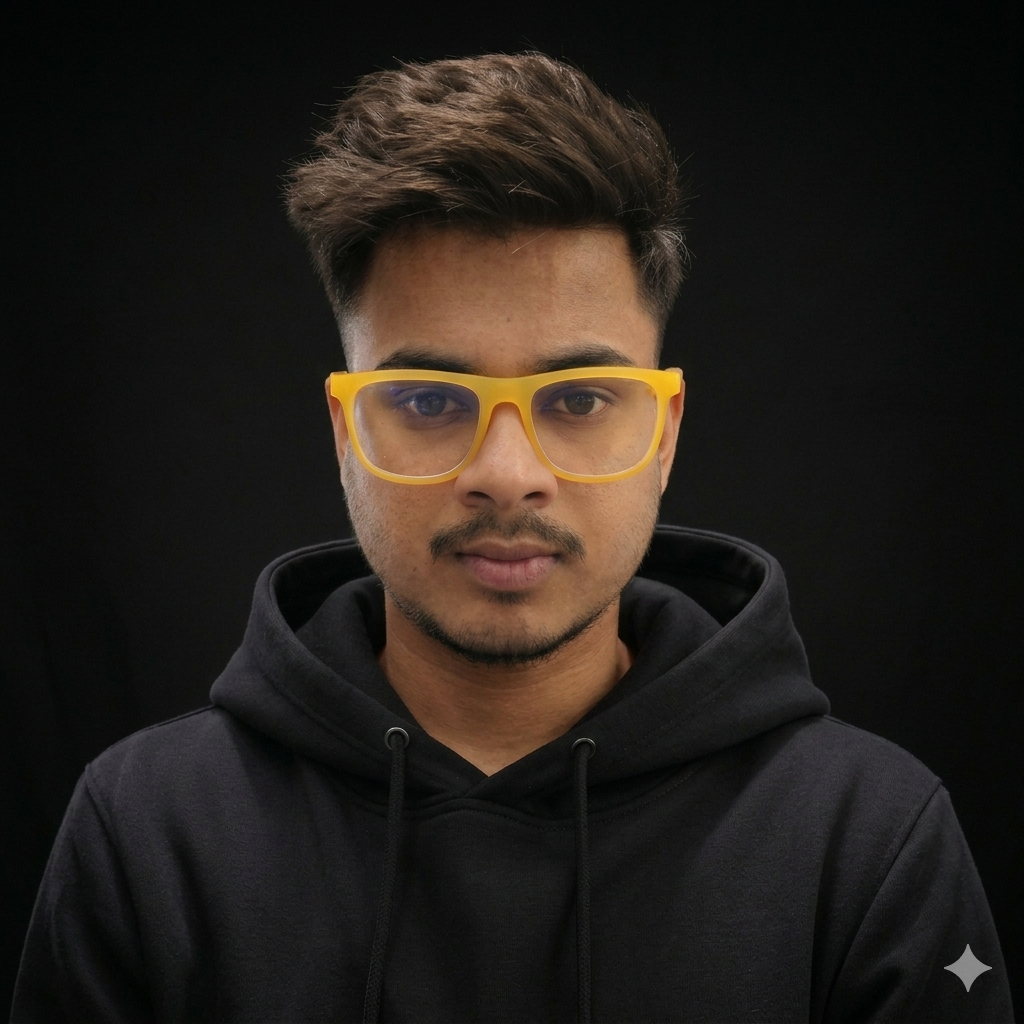
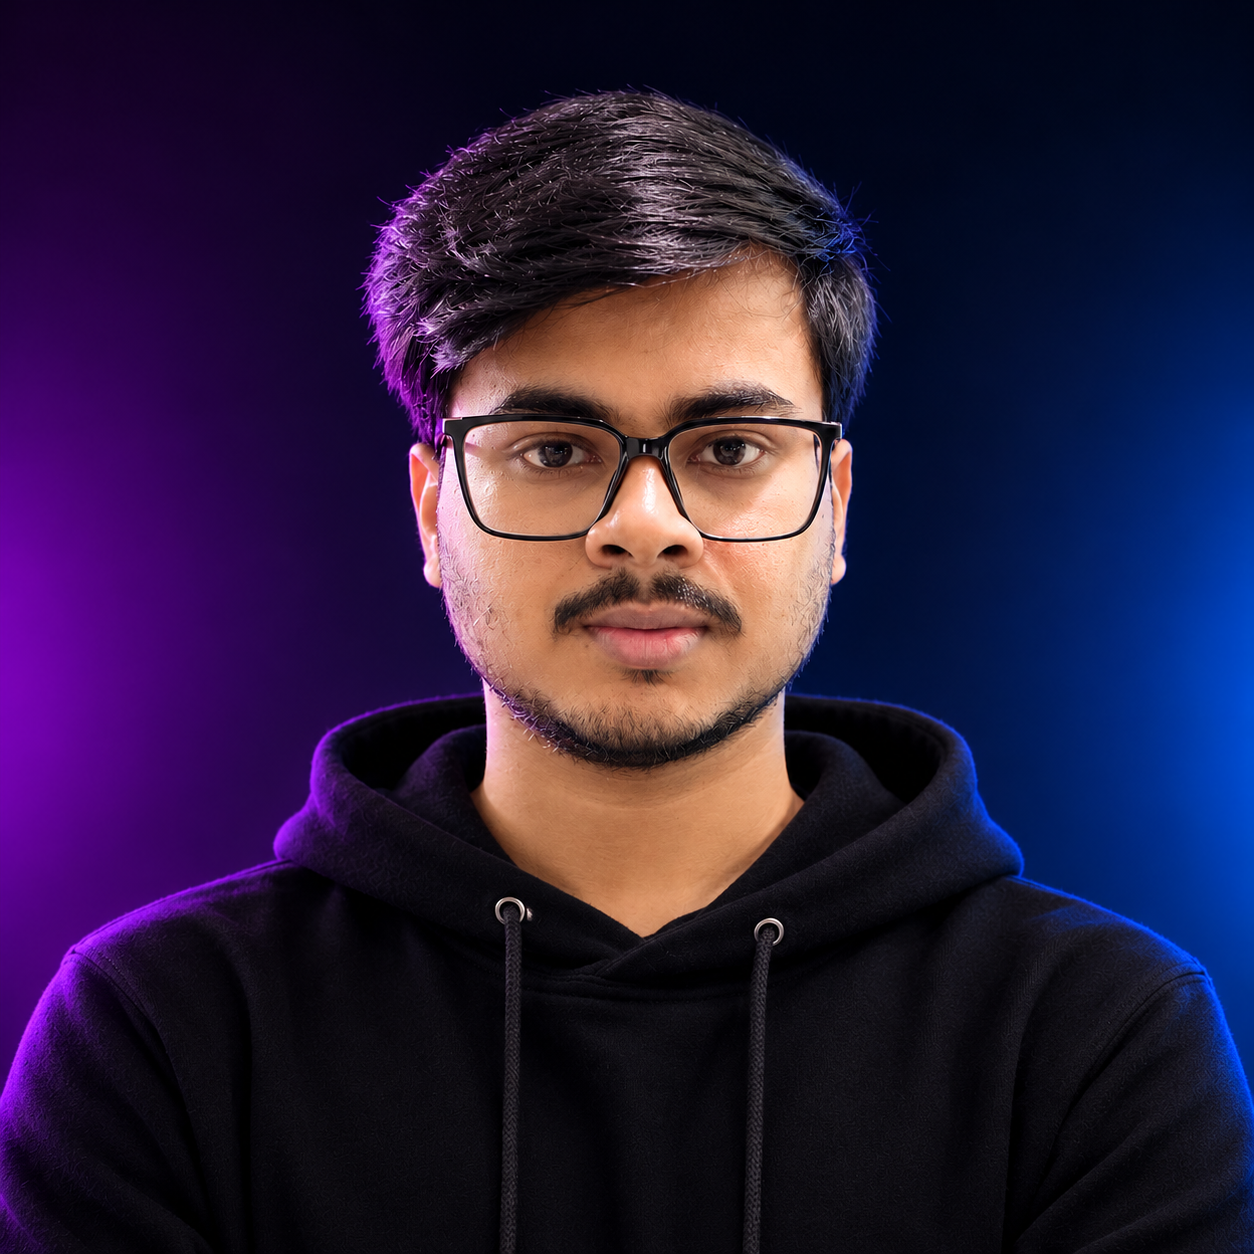
new updates

diff --git a/skills.html b/skills.html
@@ -6,8 +6,6 @@
   <title>Jagadish Das</title>
   <link rel="preconnect" href="https://fonts.googleapis.com">
   <link rel="preconnect" href="https://fonts.gstatic.com" crossorigin>
-  <link rel="preconnect" href="https://api.iconify.design">
-  <link rel="preconnect" href="https://cdn.simpleicons.org">
   <link rel="stylesheet" href="https://fonts.googleapis.com/css2?family=Cinzel:wght@600;700&family=Cormorant+Garamond:wght@400;500;600;700&family=Source+Sans+3:wght@400;500;600&display=swap">
   <link rel="icon" type="image/png" sizes="512x512" href="images/favicon.png?v=2">
   <link rel="shortcut icon" href="images/favicon.png?v=2">
@@ -67,27 +65,27 @@
         <div class="skills-group">
           <div class="skills-grid">
             <article class="skill-chip">
-              <img class="skill-icon" src="https://api.iconify.design/mdi:content-cut.svg?color=%23353F4D" alt="Video Editing" loading="lazy" decoding="async">
+              <svg class="skill-icon" role="img" aria-label="Video Editing"><use href="images/icons.svg#video-editing"></use></svg>
               <span>Video Editing</span>
             </article>
             <article class="skill-chip">
-              <img class="skill-icon" src="images/music.png" alt="Sound Design" loading="lazy" decoding="async">
+              <svg class="skill-icon" role="img" aria-label="Sound Design"><use href="images/icons.svg#sound-design"></use></svg>
               <span>Sound Design</span>
             </article>
             <article class="skill-chip">
-              <img class="skill-icon" src="https://api.iconify.design/mdi:palette-outline.svg?color=%237a5cff" alt="Color Grading" loading="lazy" decoding="async">
+              <svg class="skill-icon" role="img" aria-label="Color Grading"><use href="images/icons.svg#color-grading"></use></svg>
               <span>Color Grading</span>
             </article>
             <article class="skill-chip">
-              <img class="skill-icon" src="https://api.iconify.design/mdi:play-speed.svg?color=%23353F4D" alt="Motion Graphics" loading="lazy" decoding="async">
+              <svg class="skill-icon" role="img" aria-label="Motion Graphics"><use href="images/icons.svg#motion-graphics"></use></svg>
               <span>Motion Graphics</span>
             </article>
             <article class="skill-chip">
-              <img class="skill-icon" src="https://api.iconify.design/mdi:movie-open-outline.svg?color=%237a5cff" alt="Cinematography" loading="lazy" decoding="async">
+              <svg class="skill-icon" role="img" aria-label="Cinematography"><use href="images/icons.svg#cinematography"></use></svg>
               <span>Cinematography</span>
             </article>
             <article class="skill-chip">
-              <img class="skill-icon" src="https://api.iconify.design/mdi:camera-outline.svg?color=%237a5cff" alt="Photography" loading="lazy" decoding="async">
+              <svg class="skill-icon" role="img" aria-label="Photography"><use href="images/icons.svg#photography"></use></svg>
               <span>Photography</span>
             </article>
           </div>
@@ -97,27 +95,27 @@
           <h3 class="tools-title">Tools I Use</h3>
           <div class="skills-grid">
             <article class="skill-chip">
-              <img class="skill-icon" src="https://api.iconify.design/simple-icons:adobepremierepro.svg?color=%239999FF" alt="Premiere Pro" loading="lazy" decoding="async">
+              <svg class="skill-icon" role="img" aria-label="Premiere Pro"><use href="images/icons.svg#premiere-pro"></use></svg>
               <span>Premiere Pro</span>
             </article>
             <article class="skill-chip">
-              <img class="skill-icon" src="https://api.iconify.design/simple-icons:adobeaftereffects.svg?color=%239999FF" alt="After Effects" loading="lazy" decoding="async">
+              <svg class="skill-icon" role="img" aria-label="After Effects"><use href="images/icons.svg#after-effects"></use></svg>
               <span>After Effects</span>
             </article>
             <article class="skill-chip">
-              <img class="skill-icon" src="https://api.iconify.design/simple-icons:adobephotoshop.svg?color=%2331A8FF" alt="Photoshop" loading="lazy" decoding="async">
+              <svg class="skill-icon" role="img" aria-label="Photoshop"><use href="images/icons.svg#photoshop"></use></svg>
               <span>Photoshop</span>
             </article>
             <article class="skill-chip">
-              <img class="skill-icon" src="https://api.iconify.design/simple-icons:adobelightroom.svg?color=%2331A8FF" alt="Lightroom" loading="lazy" decoding="async">
+              <svg class="skill-icon" role="img" aria-label="Lightroom"><use href="images/icons.svg#lightroom"></use></svg>
               <span>Lightroom</span>
             </article>
             <article class="skill-chip">
-              <img class="skill-icon" src="https://cdn.simpleicons.org/davinciresolve/233A51" alt="DaVinci Resolve" loading="lazy" decoding="async">
+              <img class="skill-icon skill-icon-brand-shape" src="https://cdn.simpleicons.org/davinciresolve/353F4D" alt="DaVinci Resolve" loading="lazy" decoding="async">
               <span>Davinci Resolve</span>
             </article>
             <article class="skill-chip">
-              <img class="skill-icon" src="https://cdn.simpleicons.org/figma/F24E1E" alt="Figma" loading="lazy" decoding="async">
+              <img class="skill-icon skill-icon-brand-shape" src="https://cdn.simpleicons.org/figma/353F4D" alt="Figma" loading="lazy" decoding="async">
               <span>Figma</span>
             </article>
           </div>

diff --git a/styles.css b/styles.css
@@ -1640,15 +1640,21 @@ body.dark-mode .info-card img.info {
 #skills .skill-icon {
   width: 28px;
   height: 28px;
+  display: block;
   object-fit: contain;
   flex-shrink: 0;
-  /* Force a unified premium monochrome icon look in light mode */
-  filter: grayscale(1) brightness(0.32);
+  color: var(--heading);
 }
 
-/* Ensure darker icons remain visible in dark mode */
-body.dark-mode #skills .skill-icon {
-  filter: grayscale(1) brightness(1.1) invert(1);
+#skills .skill-icon-brand-shape {
+  width: 28px;
+  height: 28px;
+  display: block;
+  object-fit: contain;
+}
+
+body.dark-mode #skills .skill-icon-brand-shape {
+  filter: brightness(0) invert(0.92);
 }
 
 /* Keep Final Cut Pro logo color intact for visibility */
@@ -3601,14 +3607,12 @@ body.dark-mode #contact .contact-showcase-card {
   box-shadow: none;
 }
 
-#contact .contact-showcase-icon img {
+#contact .contact-showcase-icon svg {
   width: 20px;
   height: 20px;
-  filter: brightness(0);
-}
-
-body.dark-mode #contact .contact-showcase-icon img {
-  filter: brightness(0) invert(1);
+  display: block;
+  object-fit: contain;
+  color: var(--heading);
 }
 
 #contact .contact-showcase-card h3 {
@@ -3894,10 +3898,6 @@ body.dark-mode #projects .film-card {
 body.dark-mode #skills .skill-chip {
   background: linear-gradient(180deg, rgba(255,255,255,0.06), rgba(255,255,255,0.03));
   border: 1px solid var(--input-border);
-}
-body.dark-mode #skills .skill-icon:not(.skill-icon-text) {
-  /* Off-white icon tone for dark mode */
-  filter: grayscale(1) brightness(0) invert(0.92);
 }
 h1{ font-weight:600; font-size:var(--fs-h1) }
 h2{ font-size:var(--fs-h2); font-weight:600 }
@@ -5773,5 +5773,142 @@ body.dark-mode #profile.home-hero .hero-avatar.profile-pic {
   body.dark-mode .mode-toggle {
     border: 1px solid rgba(245, 239, 228, 0.08) !important;
     box-shadow: none !important;
+  }
+}
+
+/* About page layout and typography refinement */
+body.about-page .site-wrapper {
+  max-width: 1080px;
+  padding-top: clamp(112px, 13vh, 148px);
+  padding-bottom: clamp(36px, 5vw, 64px);
+}
+
+#about-me.about-ref {
+  padding: 1rem 0 2rem;
+}
+
+.about-ref-wrap {
+  width: min(100%, 900px);
+  margin-inline: auto;
+}
+
+.about-ref-top {
+  max-width: 760px;
+}
+
+.about-ref-top h2 {
+  margin: 0;
+  font-size: clamp(1.9rem, 1.55rem + 1.35vw, 2.6rem);
+  line-height: 1.12;
+  letter-spacing: 0.005em;
+  text-wrap: balance;
+}
+
+.about-ref-accent {
+  width: 72px;
+  height: 8px;
+  margin: 0.9rem 0 1.15rem;
+}
+
+.about-ref-name {
+  margin: 0 0 0.35rem;
+  font-size: clamp(2.25rem, 1.8rem + 1.8vw, 3.1rem);
+  line-height: 1.08;
+  letter-spacing: -0.018em;
+  text-wrap: balance;
+}
+
+.about-ref-role {
+  display: block;
+  max-width: none;
+  margin: 0 0 1.15rem;
+  font-size: clamp(1.28rem, 1.1rem + 0.65vw, 1.65rem);
+  line-height: 1.3;
+  letter-spacing: 0;
+  white-space: normal;
+  text-wrap: balance;
+}
+
+.about-ref-body {
+  max-width: 68ch;
+  font-family: 'Source Sans 3', system-ui, sans-serif;
+  font-size: clamp(1rem, 0.96rem + 0.22vw, 1.1rem);
+  line-height: 1.75;
+  letter-spacing: 0.005em;
+  text-wrap: pretty;
+}
+
+.about-ref-grid {
+  grid-template-columns: repeat(2, minmax(0, 1fr));
+  align-items: stretch;
+  gap: clamp(1rem, 2.4vw, 1.5rem);
+  margin-top: clamp(1.8rem, 3vw, 2.5rem);
+}
+
+.about-ref-col {
+  min-width: 0;
+  padding: clamp(1.2rem, 2.2vw, 1.6rem);
+  border: 1px solid var(--input-border);
+  border-radius: 18px;
+  background: var(--card);
+}
+
+.about-ref-col h3 {
+  padding-bottom: 0.75rem;
+  margin-bottom: 1rem;
+  border-bottom-color: var(--input-border);
+  color: var(--heading);
+  font-size: 0.9rem;
+  line-height: 1.35;
+  letter-spacing: 0.11em;
+}
+
+.about-ref-col ul {
+  gap: 0.78rem;
+}
+
+.about-ref-col li {
+  grid-template-columns: 8px minmax(0, 1fr);
+  gap: 0.7rem;
+  align-items: baseline;
+  font-family: 'Source Sans 3', system-ui, sans-serif;
+  font-size: 0.98rem;
+  line-height: 1.5;
+  letter-spacing: 0.005em;
+  text-wrap: pretty;
+}
+
+.about-ref-col li::before {
+  width: 6px;
+  height: 6px;
+  margin-top: 0;
+  align-self: center;
+  box-shadow: none;
+}
+
+@media (max-width: 640px) {
+  body.about-page .site-wrapper {
+    padding-top: 104px;
+    padding-bottom: 32px;
+  }
+
+  #about-me.about-ref {
+    padding-top: 0.5rem;
+    padding-bottom: 1.25rem;
+  }
+
+  .about-ref-grid {
+    grid-template-columns: minmax(0, 1fr);
+    gap: 0.85rem;
+    margin-top: 1.5rem;
+  }
+
+  .about-ref-col {
+    padding: 1.1rem;
+    border-radius: 15px;
+  }
+
+  .about-ref-col ul {
+    gap: 0.65rem;
   }
 }

diff --git a/contact.html b/contact.html
@@ -6,7 +6,6 @@
   <title>Jagadish Das</title>
   <link rel="preconnect" href="https://fonts.googleapis.com">
   <link rel="preconnect" href="https://fonts.gstatic.com" crossorigin>
-  <link rel="preconnect" href="https://api.iconify.design">
   <link rel="stylesheet" href="https://fonts.googleapis.com/css2?family=Cinzel:wght@600;700&family=Cormorant+Garamond:wght@400;500;600;700&family=Source+Sans+3:wght@400;500;600&display=swap">
   <link rel="icon" type="image/png" sizes="512x512" href="images/favicon.png?v=2">
   <link rel="shortcut icon" href="images/favicon.png?v=2">
@@ -69,7 +68,7 @@
         <div class="contact-showcase-grid">
           <article class="contact-showcase-card">
             <div class="contact-showcase-icon">
-              <img src="https://api.iconify.design/mdi:email-outline.svg" alt="Email icon" loading="lazy" decoding="async">
+              <svg role="img" aria-label="Email icon"><use href="images/icons.svg#email"></use></svg>
             </div>
             <p>Share your project brief and requirements.</p>
             <a
@@ -84,7 +83,7 @@
 
           <article class="contact-showcase-card">
             <div class="contact-showcase-icon">
-              <img src="https://api.iconify.design/mdi:video-outline.svg" alt="Google Meet icon" loading="lazy" decoding="async">
+              <svg role="img" aria-label="Google Meet icon"><use href="images/icons.svg#video-call"></use></svg>
             </div>
             <p>Schedule a meet to disscuss about your project.</p>
             <a
@@ -100,7 +99,7 @@
 
           <article class="contact-showcase-card">
             <div class="contact-showcase-icon">
-              <img src="https://api.iconify.design/mdi:map-marker-outline.svg" alt="Location icon" loading="lazy" decoding="async">
+              <svg role="img" aria-label="Location icon"><use href="images/icons.svg#location"></use></svg>
             </div>
             <p>LOCATION</p>
             <p class="contact-card-address">Bangalore, India</p>
@@ -109,7 +108,7 @@
 
           <article class="contact-showcase-card">
             <div class="contact-showcase-icon">
-              <img src="https://api.iconify.design/mdi:clock-outline.svg" alt="Clock icon" loading="lazy" decoding="async">
+              <svg role="img" aria-label="Clock icon"><use href="images/icons.svg#clock"></use></svg>
             </div>
             <p>RESPONSE TIME</p>
             <span class="contact-card-meta">10:00 - 18:00 IST</span>
